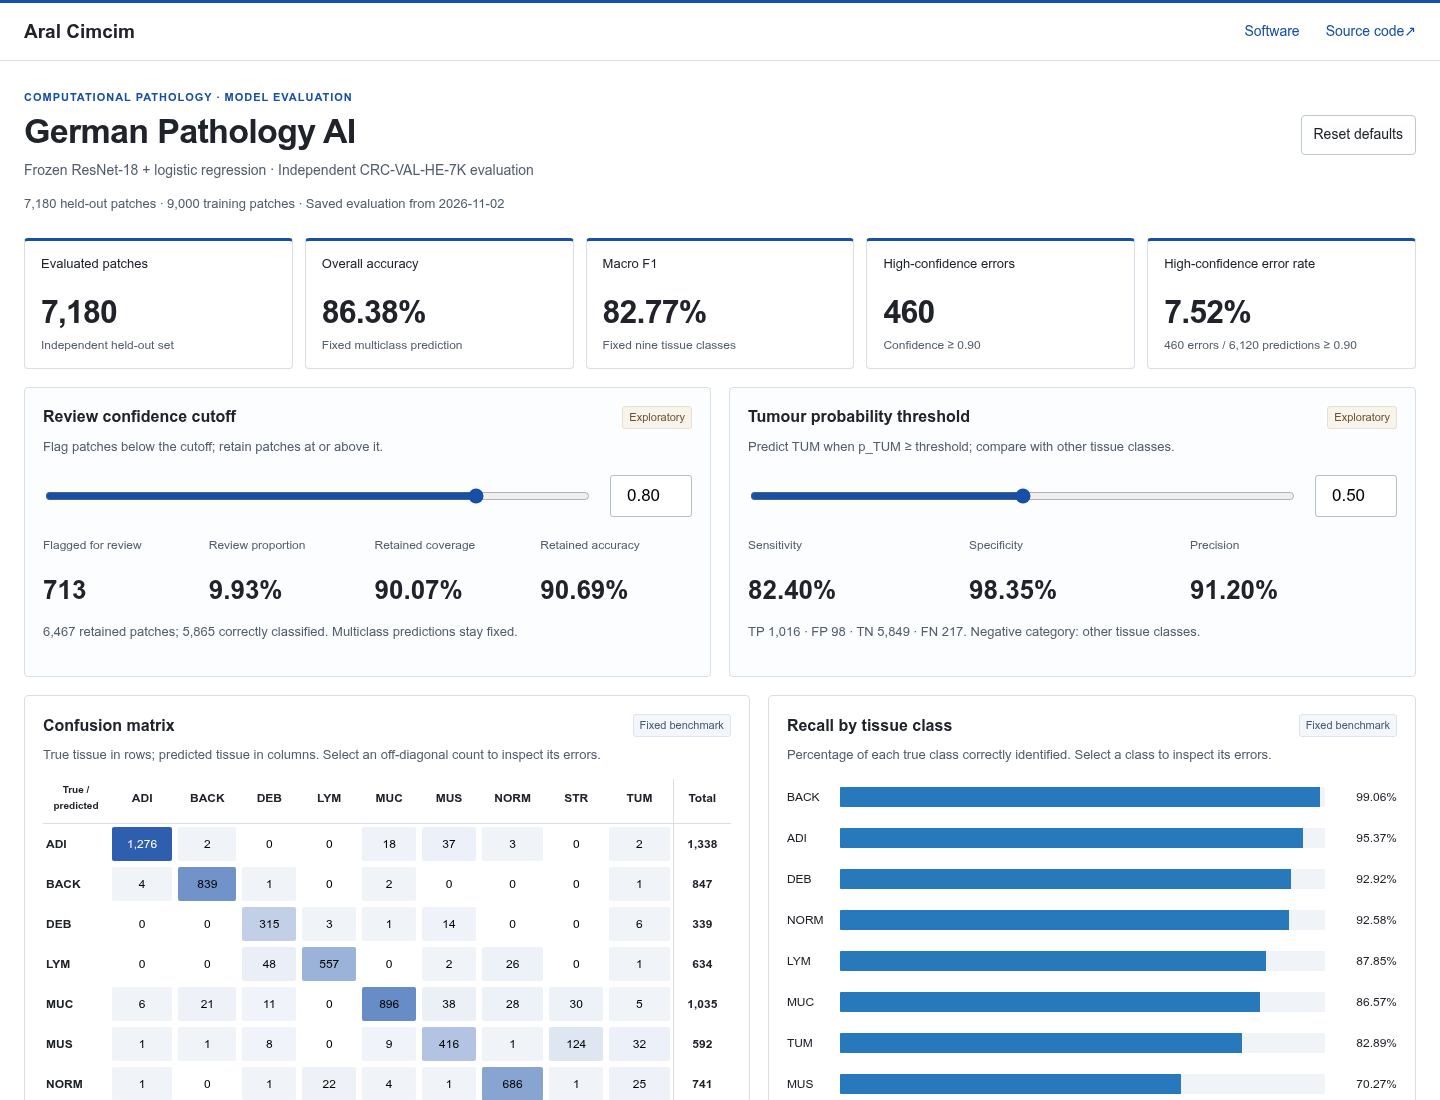
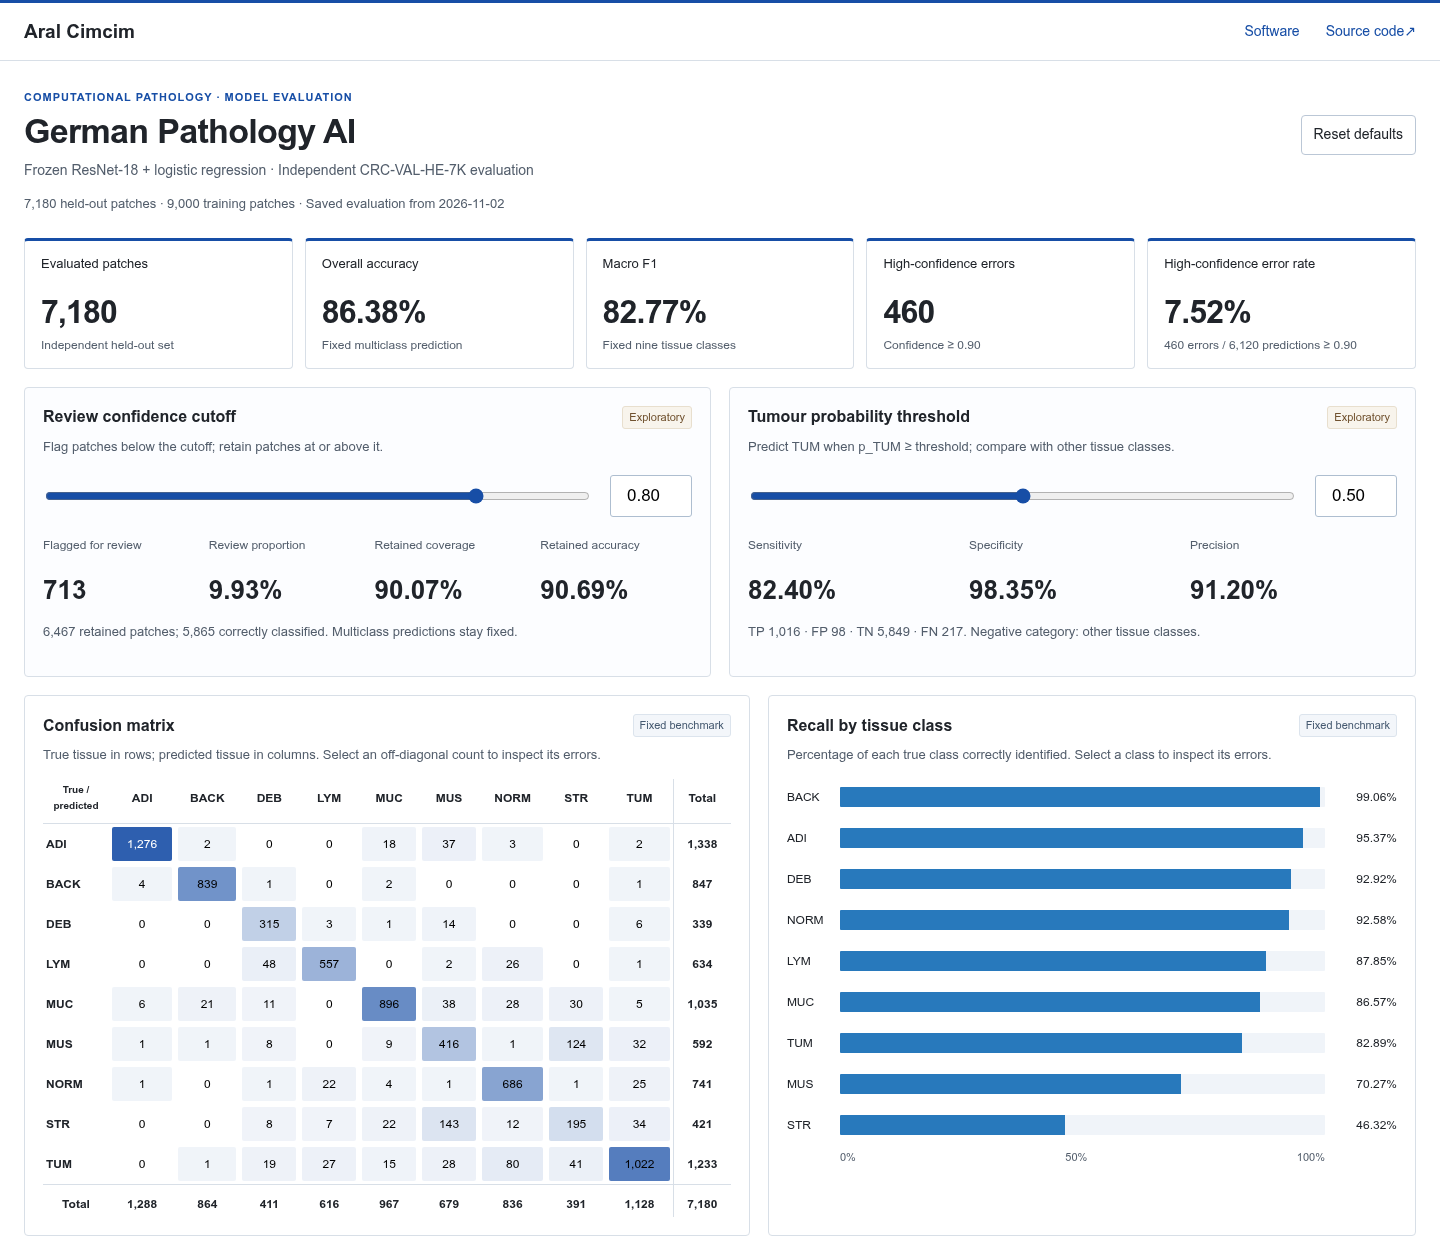
Include the full pathology benchmark in the project preview

diff --git a/_projects/pathology-ai.md b/_projects/pathology-ai.md
@@ -15,7 +15,7 @@ An interactive model evaluation dashboard built from 7,180 held-out colorectal h
 
 <figure class="project-preview">
   <a href="https://aralcimcim.github.io/german-pathology-ai/">
-    <img src="{{ '/assets/img/projects/pathology-ai-dashboard.png' | relative_url }}" alt="Pathology evaluation dashboard showing actual results, independent review and tumour controls, a confusion matrix, and class recall" width="1440" height="1100" loading="lazy">
+    <img src="{{ '/assets/img/projects/pathology-ai-dashboard.png' | relative_url }}" alt="Pathology evaluation dashboard showing actual results, independent review and tumour controls, a confusion matrix, and class recall" width="1440" height="1254" loading="lazy">
   </a>
   <figcaption>Model evaluation workspace. Open the dashboard to explore the results.</figcaption>
 </figure>
